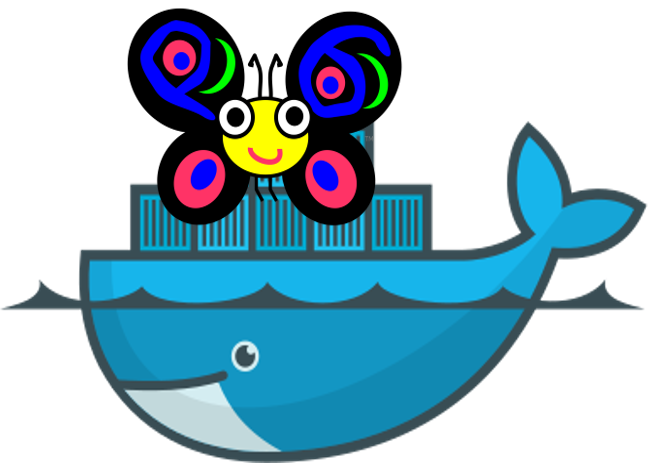
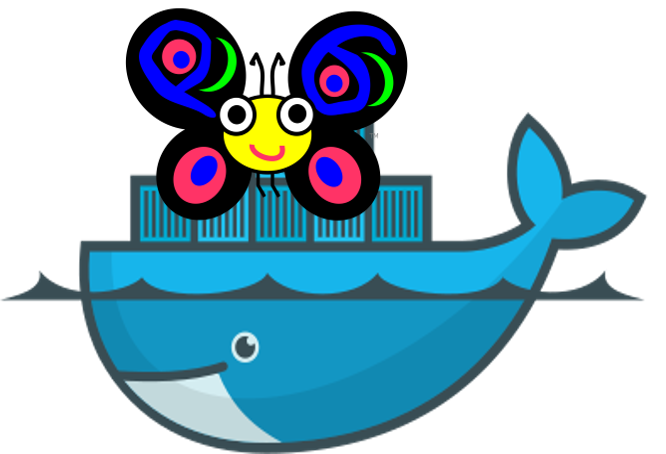
adjust size and position of image

diff --git a/README.md b/README.md
@@ -1,12 +1,14 @@
-<h1>Rakudo interpreter for The Raku Programming Language<a href="https://raku.org/"><img src="https://github.com/sumanstats/rakudo/blob/master/imgs/raku_in_docker.png" width="140" height="110" style="float:right"></a></h1>
+# Rakudo interpreter for The Raku Programming Language
 
 > Docker images for **Raku**
 
 [![Raku](https://img.shields.io/badge/Raku-v6.d-blue.svg)](https://raku.org/)
 [![Build Status](https://travis-ci.com/sumanstats/Rakudo.svg?branch=master)](https://travis-ci.com/sumanstats/rakudo)
 
+<a href="https://raku.org/"><img src="https://github.com/sumanstats/rakudo/blob/master/imgs/raku_in_docker.png" width="160" height="130" align="right"></a>
 
 Builds Raku images in dockerhub: [offical releases of Rakudo](https://hub.docker.com/r/sumankhanal/rakudo) (stable version) and [Rakudo:daily](https://hub.docker.com/r/sumankhanal/rakudo) (unstable version) directly from github.
+
 
 | Docker Image Name with tags                                                                                                | Description                                | License                                                                                                     |
 |----------------------------------------------------------------------------------------------------------------------------|--------------------------------------------|-------------------------------------------------------------------------------------------------------------|
